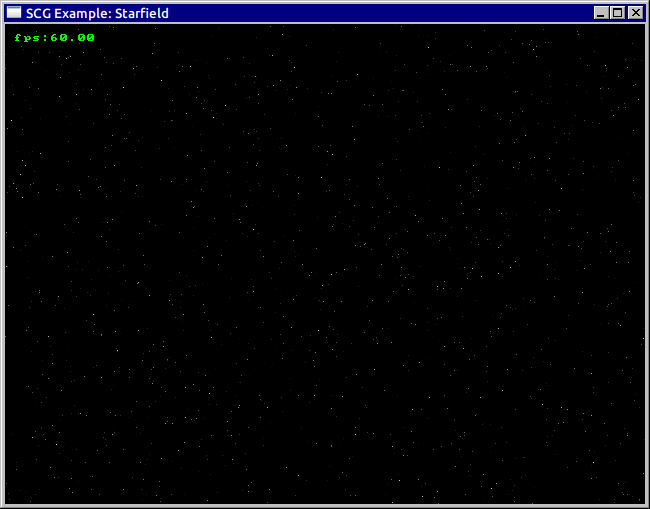
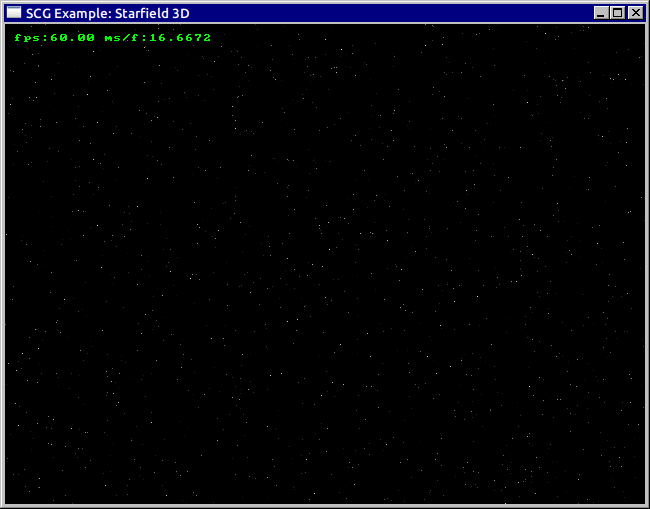
Add Metablobs example.

Changed region(s): [[0.1538, 0.0589, 0.3077, 0.0884], [0.2462, 0.0, 0.3077, 0.0295]]

diff --git a/examples/metablobs.c b/examples/metablobs.c
@@ -1,0 +1,172 @@
+// Metablobs effect implemented with help from the following references:
+// - https://seancode.com/demofx/
+
+#define SCG_IMPLEMENTATION
+#include "../scg.h"
+
+#define SCREEN_WIDTH 320
+#define SCREEN_HEIGHT 240
+
+#define NUM_BLOBS 3
+#define METABLOBS_CONST_A 300.0f
+#define METABLOBS_CONST_B 1024.0f
+
+typedef struct lissajous_t {
+	float32_t scale_x;
+	float32_t scale_y;
+	float32_t a;
+	float32_t b;
+	float32_t delta;
+} lissajous_t;
+
+typedef struct blob_t {
+	float32_t x;
+	float32_t y;
+	lissajous_t lissajous;
+	float32_t speed_modifier;
+} blob_t;
+
+typedef struct metablobs_t {
+	blob_t blobs[NUM_BLOBS];
+	float32_t const_a;
+	float32_t const_b;
+} metablobs_t;
+
+static void lissajous_get_point(lissajous_t lissajous, float32_t *out_x, float32_t *out_y, float32_t t) {
+	// Reference: https://en.wikipedia.org/wiki/Parametric_equation#Lissajous_Curve
+    *out_x = lissajous.scale_x * cosf(lissajous.a * t);
+    *out_y = lissajous.scale_y * sinf(lissajous.b * t);
+}
+
+static void init_metablobs(metablobs_t *metablobs, float32_t const_a, float32_t const_b) {
+	blob_t *blobs = metablobs->blobs;
+
+	blobs[0].lissajous = (lissajous_t){
+		.scale_x = 60.0f,
+		.scale_y = 60.0f,
+		.a = 3.0f,
+		.b = 2.0f
+	};
+	lissajous_get_point(blobs[0].lissajous, &blobs[0].x, &blobs[0].y, 0.0f);
+	blobs[0].speed_modifier = 1.0f;
+
+	blobs[1].lissajous = (lissajous_t){
+		.scale_x = 80.0f,
+		.scale_y = 80.0f,
+		.a = 1.0f,
+		.b = 2.0f
+	};
+	lissajous_get_point(blobs[1].lissajous, &blobs[1].x, &blobs[1].y, 0.0f);
+	blobs[1].speed_modifier = 0.5f;
+
+	blobs[2].lissajous = (lissajous_t){
+		.scale_x = 50.0f,
+		.scale_y = 50.0f,
+		.a = 3.0f,
+		.b = 4.0f
+	};
+	lissajous_get_point(blobs[2].lissajous, &blobs[2].x, &blobs[2].y, 0.0f);
+	blobs[2].speed_modifier = 0.33f;
+
+	metablobs->const_a = const_a;
+	metablobs->const_b = const_b;
+}
+
+static void update_metablobs(metablobs_t *metablobs, float32_t t) {
+	for (int i = 0; i < NUM_BLOBS; i++) {
+		blob_t *blob = &metablobs->blobs[i];
+		lissajous_get_point(blob->lissajous, &blob->x, &blob->y, t * blob->speed_modifier);
+	}
+}
+
+static void draw_metablobs(scg_image_t *back_buffer, metablobs_t *metablobs) {
+	const float32_t origin_x = (float32_t)SCREEN_WIDTH / 2.0f;
+	const float32_t origin_y = (float32_t)SCREEN_HEIGHT / 2.0f;
+	blob_t *blobs = metablobs->blobs;
+	float32_t const_a = metablobs->const_a;
+	float32_t const_b = metablobs->const_b;
+
+	for (int y = 0; y < SCREEN_HEIGHT; y++) {
+		for (int x = 0; x < SCREEN_WIDTH; x++) {
+			float32_t distance_product = 1.0f;
+
+			for (int i = 0; i < NUM_BLOBS; i++) {
+				float32_t blob_x = origin_x + blobs[i].x;
+				float32_t blob_y = origin_y + blobs[i].y;
+				float32_t dx = (float32_t)x - blob_x;
+				float32_t dy = (float32_t)y - blob_y;
+				distance_product *= sqrtf((dx * dx) + (dy * dy));
+			}
+
+			float32_t result = const_b - distance_product / const_a;
+			uint8_t clamped = 255 - (uint8_t)scg_clamp_float32(result, 0, 255);
+			scg_pixel_t color = scg_pixel_new_rgb(clamped, clamped, clamped);
+
+            int i = scg_pixel_index_from_xy(x, y, SCREEN_WIDTH);
+            back_buffer->pixels[i] = color.packed;
+		}
+	}
+}
+
+int main(void) {
+    scg_error_t err = scg_init();
+    if (!err.none) {
+        scg_log_error("Failed to initialise scg. Error: %s", err.message);
+        return -1;
+    }
+
+    scg_image_t back_buffer;
+    err = scg_image_new(&back_buffer, SCREEN_WIDTH, SCREEN_HEIGHT);
+    if (!err.none) {
+        scg_log_error("Failed to create back buffer. Error: %s", err.message);
+        return -1;
+    }
+
+    scg_screen_t screen;
+    err = scg_screen_new(&screen, "SCG Example: Metablobs", &back_buffer,
+                         2, false);
+    if (!err.none) {
+        scg_log_error("Failed to create screen. Error: %s", err.message);
+        return -1;
+    }
+    scg_screen_log_info(&screen);
+
+    scg_keyboard_t keyboard;
+    scg_keyboard_new(&keyboard);
+
+    metablobs_t metablobs;
+    init_metablobs(&metablobs, METABLOBS_CONST_A, METABLOBS_CONST_B);
+
+    uint64_t delta_time_counter = scg_get_performance_counter();
+    float32_t t = 0.0f;
+    scg_pixel_t clear_color = SCG_COLOR_WHITE;
+
+    while (scg_screen_is_running(&screen)) {
+        if (scg_keyboard_is_key_triggered(&keyboard, SCG_KEY_ESCAPE)) {
+            scg_screen_close(&screen);
+        }
+
+        uint64_t now = scg_get_performance_counter();
+        float32_t delta_time =
+            scg_get_elapsed_time_secs(now, delta_time_counter);
+        delta_time_counter = now;
+
+        t += 1.0f * delta_time;
+        update_metablobs(&metablobs, t);
+
+        scg_image_clear(&back_buffer, clear_color);
+
+        draw_metablobs(&back_buffer, &metablobs);
+
+        scg_image_draw_frame_metrics(&back_buffer, screen.frame_metrics);
+
+        scg_keyboard_update(&keyboard);
+        scg_screen_present(&screen);
+    }
+
+    scg_screen_destroy(&screen);
+    scg_image_destroy(&back_buffer);
+    scg_quit();
+
+    return 0;
+}

diff --git a/examples/starfield_3d.c b/examples/starfield_3d.c
@@ -106,7 +106,7 @@ int main(void) {
     }
 
     scg_screen_t screen;
-    err = scg_screen_new(&screen, "SCG Example: Starfield", &back_buffer,
+    err = scg_screen_new(&screen, "SCG Example: Starfield 3D", &back_buffer,
                          window_scale, fullscreen);
     if (!err.none) {
         scg_log_error("Failed to create screen. Error: %s", err.message);

diff --git a/README.md b/README.md
@@ -51,6 +51,7 @@ Replace `{{example_name}}` with any of the following:
 * `voxel_space`
 * `audio`
 * `matrix`
+* `metablobs`
 
 By default all the examples are built with optimization flags. To build in debug mode, use the `DEBUG=1` flag.
 
@@ -81,10 +82,10 @@ Starfield | Starfield 3D | Voxel Space
 ![starfield](/previews/starfield.png) | ![starfield-3d](/previews/starfield_3d.png) | ![voxel-space](/previews/voxel_space.png)
 [Source](examples/starfield.c) | [Source](examples/starfield_3d.c) | [Source](examples/voxel_space.c)
 
-| Audio | Matrix
-| --- | ---
-| ![audio](/previews/audio.png) | ![matrix](/previews/matrix.png)
-| [Source](examples/audio.c) | [Source](examples/matrix.c)
+| Audio | Matrix | Metablobs
+| --- | --- | ---
+| ![audio](/previews/audio.png) | ![matrix](/previews/matrix.png) | ![metablobs](/previews/metablobs.png)
+| [Source](examples/audio.c) | [Source](examples/matrix.c) | [Source](examples/metablobs.c)
 
 ## Converting audio
 
@@ -102,5 +103,5 @@ ffmpeg -i assets/{example_sound}.wav -acodec pcm_s16le -ac 2 -ar 48000 assets/{e
 	- Original link: https://freesound.org/people/joshuaempyre/sounds/251461/.
 - Space texture used in the tunnel example is by [webtreats](http://www.everystockphoto.com/photographer.php?photographer_id=71737)
 	- Original link: http://www.everystockphoto.com/photo.php?imageId=9268254.
-- Tunnel and Rotozoom effects were implemented following the helpful descriptions given by [mrkite](https://github.com/mrkite) at https://seancode.com/demofx/.
+- Tunnel, Rotozoom and Metablobs effects were implemented following the helpful descriptions given by [mrkite](https://github.com/mrkite) at https://seancode.com/demofx/.
 - Voxel Space effect implemented with help from https://github.com/s-macke/VoxelSpace.
